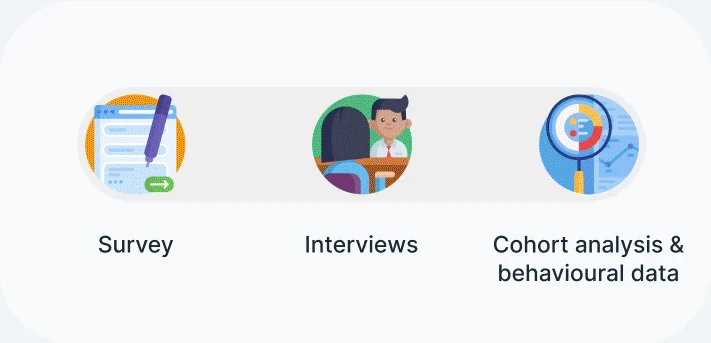
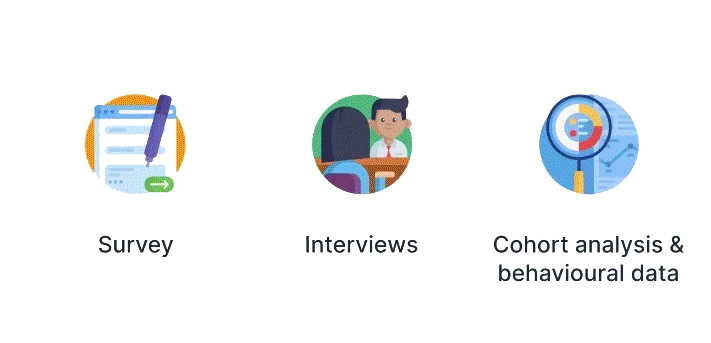
Case studies: transparent illustrations, dark-mode inversion, consistent section tones, landlord hero like gamification

diff --git a/src/app/work/gamification/page.tsx b/src/app/work/gamification/page.tsx
@@ -11,6 +11,7 @@ import {
   NumberCard,
   P,
   Paper,
+  darkInvert,
   Rich,
   ScrollFig,
   Section,
@@ -20,6 +21,7 @@ import {
 import type { Metadata } from "next";
 import Image from "next/image";
 import type { ReactNode } from "react";
+import { cn } from "@/lib/utils";
 
 const A = "/case-studies/gamification";
 
@@ -409,7 +411,7 @@ export default function GamificationCaseStudy() {
             h={343}
             alt="Research methods: survey, interviews, and cohort analysis with behavioural data"
             sizes="(min-width: 1024px) 540px, 100vw"
-            className="rounded-3xl"
+            className={darkInvert}
           />
         </TwoCol>
       </Section>
@@ -550,15 +552,14 @@ export default function GamificationCaseStudy() {
               </P>
             </div>
           </div>
-          <Paper className="mx-auto w-full max-w-md">
-            <Fig
-              src={`${A}/sdt-venn.webp`}
-              w={536}
-              h={609}
-              alt="Self-Determination Theory: autonomy, competence and relatedness"
-              sizes="(min-width: 1024px) 420px, 90vw"
-            />
-          </Paper>
+          <Fig
+            src={`${A}/sdt-venn.webp`}
+            w={536}
+            h={609}
+            alt="Self-Determination Theory: autonomy, competence and relatedness"
+            sizes="(min-width: 1024px) 420px, 90vw"
+            className={cn("mx-auto max-w-md", darkInvert)}
+          />
         </TwoCol>
       </Section>
 
@@ -630,7 +631,7 @@ export default function GamificationCaseStudy() {
             h={594}
             alt="Illustrated avatars orbiting the Resi logo, representing the six HEXAD persona types"
             sizes="(min-width: 1024px) 480px, 80vw"
-            className="mx-auto max-w-md rounded-3xl"
+            className={cn("mx-auto max-w-md", darkInvert)}
           />
         </TwoCol>
 
@@ -761,7 +762,6 @@ export default function GamificationCaseStudy() {
             h={509}
             alt="Level screens: Primitive Cave, Cozy Cottage, Modern Villa, Luxurious Mansion and Grand Palace"
             sizes="(min-width: 1024px) 540px, 100vw"
-            className="rounded-3xl"
           />
         </div>
 
@@ -773,7 +773,7 @@ export default function GamificationCaseStudy() {
             h={522}
             alt="Repeating, special and milestone badges"
             sizes="(min-width: 1024px) 540px, 100vw"
-            className="rounded-3xl lg:order-1"
+            className="lg:order-1"
           />
           <div className="lg:order-2">
             <H3>Badges</H3>
@@ -917,15 +917,14 @@ export default function GamificationCaseStudy() {
               rate, feature adoption, and user satisfaction.
             </P>
           </div>
-          <Paper className="p-2 sm:p-3">
-            <Fig
-              src={`${A}/mixpanel.webp`}
-              w={790}
-              h={955}
-              alt="Mixpanel report comparing user landings across two weeks as grouped bars"
-              sizes="(min-width: 1024px) 520px, 100vw"
-            />
-          </Paper>
+          <Fig
+            src={`${A}/mixpanel.webp`}
+            w={790}
+            h={955}
+            alt="Mixpanel report comparing user landings across two weeks as grouped bars"
+            sizes="(min-width: 1024px) 520px, 100vw"
+            className={cn("rounded-2xl", darkInvert)}
+          />
         </TwoCol>
       </Section>
 
@@ -1007,7 +1006,7 @@ export default function GamificationCaseStudy() {
       </Section>
 
       {/* ------------------------------ 13 Conclusion --------------------------- */}
-      <Section n="13" label="Conclusion and Next Steps" tone="lavender">
+      <Section n="13" label="Conclusion and Next Steps" tone="indigo">
         <H2>Conclusion</H2>
         <P className="mt-8 max-w-4xl">
           The introduction of gamification features in our tenant app

diff --git a/src/app/work/landlord/page.tsx b/src/app/work/landlord/page.tsx
@@ -10,7 +10,8 @@ import {
   Lane,
   NumberCard,
   P,
-  Paper,
+  alwaysInvert,
+  darkInvert,
   Rich,
   ScrollFig,
   Section,
@@ -20,6 +21,7 @@ import {
 import type { Metadata } from "next";
 import Image from "next/image";
 import type { ReactNode } from "react";
+import { cn } from "@/lib/utils";
 
 const M = "/case-studies/move-out";
 
@@ -489,29 +491,36 @@ export default function MoveOutCaseStudy() {
   return (
     <CaseStudyPage>
       {/* ------------------------------ Hero ------------------------------ */}
-      <Section tone="tint" className="pt-16 sm:pt-24">
-        <Image
-          src={`${M}/resi-logo.webp`}
-          width={180}
-          height={55}
-          alt="Resi"
-          className="h-10 w-auto rounded-sm bg-white p-1 sm:h-12"
-        />
-        <H1 className="mt-8 max-w-3xl">Streamlining the Move-Out Process</H1>
-        <p className="mt-6 text-xl opacity-70 sm:text-2xl">
-          Enhancing Tenant Experience and Operational Efficiency
-        </p>
-        <Paper className="mt-12 p-0 sm:p-0">
+      <section className="w-full overflow-hidden bg-[#202024] text-white">
+        <div className="mx-auto max-w-6xl px-6 pt-20 lg:pt-28">
+          <Image
+            src={`${M}/resi-logo.webp`}
+            width={180}
+            height={55}
+            alt="Resi"
+            className="h-10 w-auto rounded-sm bg-white p-1 sm:h-12"
+          />
+          <H1 className="mt-8 max-w-3xl">Streamlining the Move-Out Process</H1>
+          <p className="mt-6 text-xl opacity-80 sm:text-2xl">
+            Enhancing Tenant Experience and Operational Efficiency
+          </p>
+        </div>
+        <div className="mx-auto mt-10 max-w-6xl lg:mt-14">
           <Fig
             src={`${M}/hero-skyline.webp`}
             w={1410}
             h={395}
             alt="Illustration of a city skyline of blue apartment buildings"
             priority
-            className="h-44 object-cover object-center sm:h-auto"
+            sizes="(min-width: 1152px) 1152px, 100vw"
+            className={cn(
+              "h-44 object-cover object-bottom sm:h-auto",
+              alwaysInvert,
+              "[-webkit-mask-image:linear-gradient(to_bottom,transparent,black_30%)] [mask-image:linear-gradient(to_bottom,transparent,black_30%)]"
+            )}
           />
-        </Paper>
-      </Section>
+        </div>
+      </section>
 
       {/* ------------------------------ 01 Problem ------------------------------ */}
       <Section n="01" label="Problem">
@@ -643,7 +652,7 @@ export default function MoveOutCaseStudy() {
             h={623}
             alt=""
             sizes="400px"
-            className="mx-auto hidden max-w-sm rounded-3xl lg:block"
+            className={cn("mx-auto hidden max-w-sm lg:block", darkInvert)}
           />
         </TwoCol>
       </Section>

diff --git a/src/components/case-study/ui.tsx b/src/components/case-study/ui.tsx
@@ -119,13 +119,18 @@ export function P({
 /*  Layout                                                                    */
 /* -------------------------------------------------------------------------- */
 
+/** Flips a light-background illustration for dark mode (keeps hues). */
+export const darkInvert = "dark:[filter:invert(1)_hue-rotate(180deg)]";
+/** Same flip, always on: for art placed on an always-dark band. */
+export const alwaysInvert = "[filter:invert(1)_hue-rotate(180deg)]";
+
 export type Tone = "plain" | "muted" | "tint" | "lavender" | "indigo" | "dark";
 
 const tones: Record<Tone, string> = {
   plain: "bg-background text-foreground",
   muted: "bg-muted/50 text-foreground",
-  tint: "bg-indigo-500/[0.07] text-foreground",
-  lavender: "bg-indigo-400/20 text-foreground",
+  tint: "bg-indigo-500/[0.07] text-foreground dark:bg-white/[0.035]",
+  lavender: "bg-indigo-400/20 text-foreground dark:bg-white/[0.035]",
   indigo: "bg-indigo-500 text-white [&_strong]:text-white",
   dark: "bg-[#1b1b20] text-white [&_strong]:text-white",
 };
